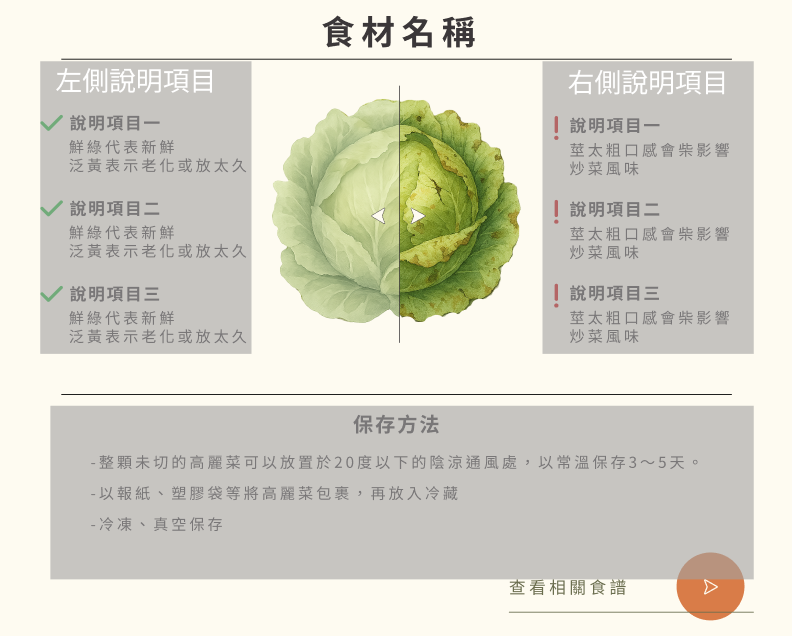
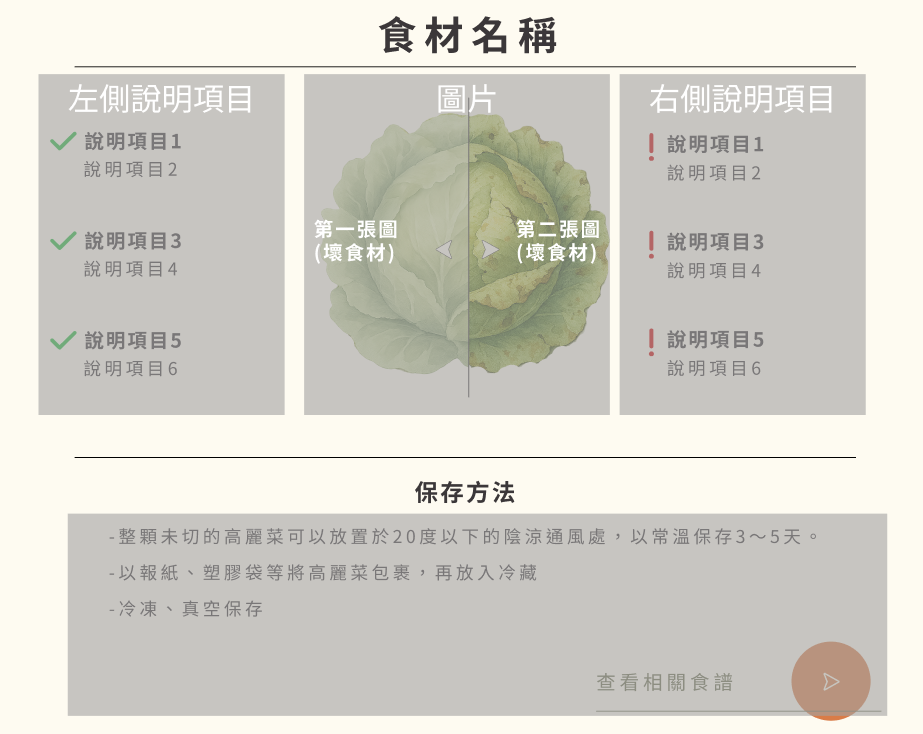
fix(school):修改食材詳情欄位寬度/fix(components):更換tip圖片

diff --git a/src/pages/IngredientDetail.vue b/src/pages/IngredientDetail.vue
@@ -93,10 +93,10 @@
 
   /** —— 第二張表：挑選指南 —— */
   const ingredientGuideColumns = ref([
-    { prop: 'goodText', label: '左側說明項目', type: 'text-edit', width: 400 },
+    { prop: 'goodText', label: '左側說明項目', type: 'text-edit' },
     { prop: 'comparisonImage', label: '圖片', type: 'image' },
-    { prop: 'badText', label: '右側說明項目', type: 'text-edit', width: 400 },
-    { prop: 'preservationText', label: '保存方法', type: 'text-edit', width: 600 },
+    { prop: 'badText', label: '右側說明項目', type: 'text-edit' },
+    { prop: 'preservationText', label: '保存方法', type: 'text-edit' },
   ]);
 
   // 第一個表格的資料
